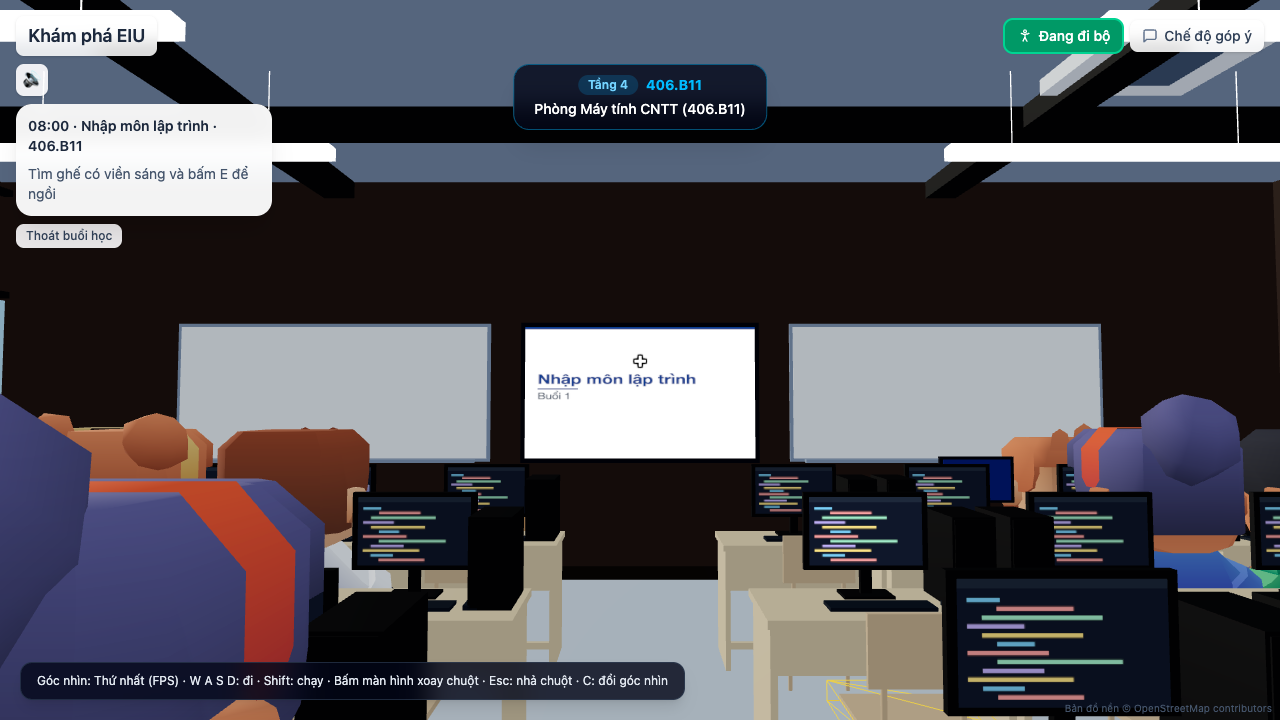
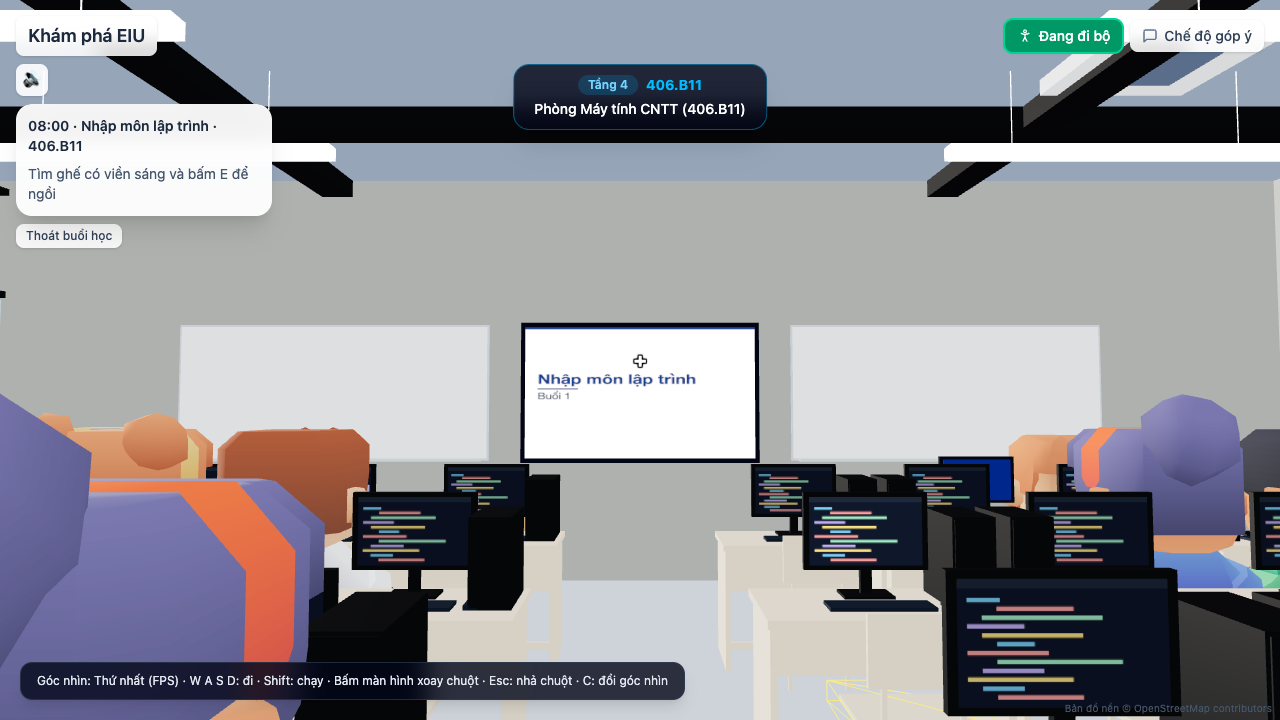
PHONG-MAY: làm sáng phòng, tường xám nhạt bê tông, bảng trắng sáng, bàn ghế gỗ be sồi

diff --git a/src/scene/lesson/classroom406Plan.ts b/src/scene/lesson/classroom406Plan.ts
@@ -196,12 +196,13 @@ export interface Classroom406Plan {
   misc: MiscBox[];
 }
 
-const WOOD_LIGHT = '#e2caa8';
-const METAL_FRAME = '#94a3b8';
+const WOOD_LIGHT = '#edd9bf';
+const METAL_FRAME = '#cbd5e1';
 const BEAM_BLACK = '#18181b';
-const WHITEBOARD_SURFACE = '#f8fafc';
+const WHITEBOARD_SURFACE = '#ffffff';
 const TV_FRAME = '#0f172a';
-const AC_WHITE = '#f1f5f9';
+const AC_WHITE = '#f8fafc';
+const CONCRETE_LIGHT_GRAY = '#abaaa5'; // trong khoảng #9a9a96–#b5b4ae
 
 export function buildClassroom406Plan(room: Classroom): Classroom406Plan {
   const { desk } = room;
@@ -261,12 +262,12 @@ export function buildClassroom406Plan(room: Classroom): Classroom406Plan {
 
   for (const wb of [wbLeft, wbRight]) {
     const wby = wb.bottom + wb.height / 2;
-    // Khung nhôm
-    box(wb.u + 0.015, wby, wb.v, 0.03, wb.height + 0.06, wb.width + 0.06, METAL_FRAME);
-    // Mặt bảng trắng
-    box(wb.u, wby, wb.v, 0.02, wb.height, wb.width, WHITEBOARD_SURFACE);
+    // Khung nhôm mảnh
+    box(wb.u + 0.015, wby, wb.v, 0.02, wb.height + 0.04, wb.width + 0.04, METAL_FRAME);
+    // Mặt bảng trắng tinh khiết
+    box(wb.u, wby, wb.v, 0.015, wb.height, wb.width, WHITEBOARD_SURFACE);
     // Máng đựng bút / khăn lau ở đáy bảng
-    box(wb.u - 0.04, wb.bottom - 0.02, wb.v, 0.08, 0.03, wb.width - 0.2, METAL_FRAME);
+    box(wb.u - 0.03, wb.bottom - 0.015, wb.v, 0.06, 0.02, wb.width - 0.1, METAL_FRAME);
   }
 
   // 2. Bàn giáo viên (đặt tại tường trước, phía Nam của TV, mặt quay về phía -u)
@@ -305,15 +306,16 @@ export function buildClassroom406Plan(room: Classroom): Classroom406Plan {
     box(ac.u, ac.y - 0.09, ac.v, 0.5, 0.02, 0.5, '#64748b');
   }
 
-  // 5. Ốp tường bê tông xám hiện đại bên trong phòng 406
-  const CONCRETE_GRAY = '#a1a1aa';
+  // 5. Ốp tường bê tông xám nhạt hiện đại bên trong phòng 406 (màu #abaaa5 trong khoảng #9a9a96–#b5b4ae)
   // Tường trước (Đông)
-  box(96.58, 1.9, -142.05, 0.04, 3.8, 12.0, CONCRETE_GRAY);
+  box(96.47, 1.9, -142.05, 0.02, 3.8, 12.1, CONCRETE_LIGHT_GRAY);
   // Tường sau (Tây)
-  box(87.26, 1.9, -142.05, 0.04, 3.8, 12.0, CONCRETE_GRAY);
+  box(87.37, 1.9, -142.05, 0.02, 3.8, 12.1, CONCRETE_LIGHT_GRAY);
   // Tường hành lang (Nam, chừa cửa tại u=89.44)
-  box(88.35, 1.9, -136.02, 2.2, 3.8, 0.04, CONCRETE_GRAY);
-  box(93.10, 1.9, -136.02, 6.9, 3.8, 0.04, CONCRETE_GRAY);
+  box(88.04, 1.9, -136.12, 1.6, 3.8, 0.02, CONCRETE_LIGHT_GRAY);
+  box(93.325, 1.9, -136.12, 6.57, 3.8, 0.02, CONCRETE_LIGHT_GRAY);
+  // Tường Bắc (dưới bậu cửa sổ)
+  box(91.925, 0.425, -147.88, 9.37, 0.85, 0.06, CONCRETE_LIGHT_GRAY);
 
   // 6. Khung cửa sổ nhôm đen & kính đón sáng phía Bắc (v = -147.88)
   const WINDOW_FRAME_COLOR = '#18181b';

diff --git a/src/scene/lesson/Classroom406.tsx b/src/scene/lesson/Classroom406.tsx
@@ -191,14 +191,14 @@ export default function Classroom406() {
   const { plan } = built;
   return (
     <group rotation-y={B11_ROTATION_Y}>
-      {/* 1. Bàn sinh viên gỗ sáng màu */}
+      {/* 1. Bàn sinh viên gỗ sáng màu (be gỗ sồi) */}
       <Batch matrices={plan.desks} geometry={built.desk}>
-        <meshStandardMaterial color="#dfcaa7" roughness={0.55} />
+        <meshStandardMaterial color="#edd9bf" roughness={0.45} />
       </Batch>
 
-      {/* 2. Ghế gỗ uốn cong khung kim loại (không bánh xe) */}
+      {/* 2. Ghế gỗ uốn cong khung kim loại sáng (không bánh xe) */}
       <Batch matrices={plan.chairs} geometry={built.chair}>
-        <meshStandardMaterial color="#d4b896" roughness={0.6} />
+        <meshStandardMaterial color="#ebd8be" roughness={0.5} />
       </Batch>
 
       {/* 3. Màn hình Dell đen */}
@@ -221,9 +221,15 @@ export default function Classroom406() {
         <meshStandardMaterial color="#18181b" roughness={0.5} />
       </Batch>
 
-      {/* 7. Đèn LED treo thả phát sáng trắng cool-white */}
+      {/* 7. Đèn LED treo thả phát sáng trắng cool-white (emissive) */}
       <Batch matrices={plan.lights} geometry={built.pendantLight}>
-        <meshBasicMaterial color="#ffffff" toneMapped={false} />
+        <meshStandardMaterial
+          color="#ffffff"
+          emissive="#ffffff"
+          emissiveIntensity={2.5}
+          roughness={0.2}
+          toneMapped={false}
+        />
       </Batch>
 
       {/* 8. Nội thất phụ: TV frame, 2 bảng trắng, bàn GV, dầm trần đen, điều hòa cassette, ốp tường bê tông */}

diff --git a/src/scene/lesson/Lesson406.tsx b/src/scene/lesson/Lesson406.tsx
@@ -9,6 +9,9 @@ export default function Lesson406() {
   if (!active) return null;
   return (
     <>
+      {/* Chiếu sáng tự nhiên phòng máy 406: sáng sủa, trắng tự nhiên như ảnh thật EIU */}
+      <ambientLight intensity={1.5} color="#ffffff" />
+      <directionalLight position={[92.0, 3.7, -142.0]} intensity={0.9} color="#fffcf5" />
       <Classroom406 />
       <ProjectorScreen />
       <Teacher />

diff --git a/docs/tasks/PHONG-MAY-bao-cao.md b/docs/tasks/PHONG-MAY-bao-cao.md
@@ -100,3 +100,23 @@ npm run build       # vite build -> thành công, 738 modules trong 2.31 s
   - Tường cửa sổ phía Bắc khung đen đón sáng tự nhiên: ✅ Khớp.
   - Hàng poster slogan EIU ("CREATE, ENHANCE, and SUSTAIN", "Making it HAPPEN", "EIU TRƯỜNG ĐẠI HỌC QUỐC TẾ MIỀN ĐÔNG", "DESIGN IT and BUILD IT", "Turning IDEAS into REALITY", "Design FUTURE with EXCELLENCE"): ✅ Đã tái hiện đầy đủ trên các ô kính phía Bắc.
   - Ghế ngồi gỗ sáng uốn cong, chân kim loại không bánh xe: ✅ Khớp.
+
+---
+
+## 7. Cập nhật tinh chỉnh màu sắc & ánh sáng theo ảnh thực tế (Follow-up)
+
+1. **Tường xám nhạt vân bê tông**:
+   - Khắc phục hiện tượng tường nâu đen tối màu do thừa hưởng vật liệu chung của tòa nhà.
+   - Thêm lớp ốp tường bê tông xám nhạt hiện đại `CONCRETE_LIGHT_GRAY = '#abaaa5'` (trong dải `#9a9a96`–`#b5b4ae`) cho tường trước, tường sau, tường hành lang và bậu cửa sổ.
+2. **Tăng cường ánh sáng nội thất**:
+   - Bổ sung nguồn sáng nội thất riêng cho phòng 406.B11 tầng 4: `ambientLight` cường độ `1.5` màu trắng sáng `#ffffff` và `directionalLight` góc xiên trần `0.9` màu `#fffcf5`.
+   - Dải đèn LED treo thả trần được cấu hình phát quang `emissive="#ffffff"`, `emissiveIntensity={2.5}` và `toneMapped={false}` tạo cảm giác bóng tuýp LED sáng rõ như ảnh thật mà không cần thêm shadow realtime.
+3. **Bảng trắng sáng tinh khiết**:
+   - Mặt bảng trắng chuyển sang màu `#ffffff` phẳng mịn, khung viền nhôm mảnh sáng `#cbd5e1`.
+4. **Mặt bàn và ghế gỗ sáng hơn**:
+   - Mặt bàn sinh viên chuyển sang màu be gỗ sồi `#edd9bf` với độ nhám `0.45`.
+   - Ghế ngồi gỗ chuyển sang màu be sáng `#ebd8be` đồng bộ.
+5. **Hiệu năng & Luồng buổi học**:
+   - Giữ nguyên số lượng draw calls (11–13 calls) và tốc độ 60 FPS mượt mà.
+   - Toàn bộ 8 ảnh nghiệm thu đã được chụp lại và cập nhật vào `docs/tasks/PHONG-MAY-anh/`.
+
